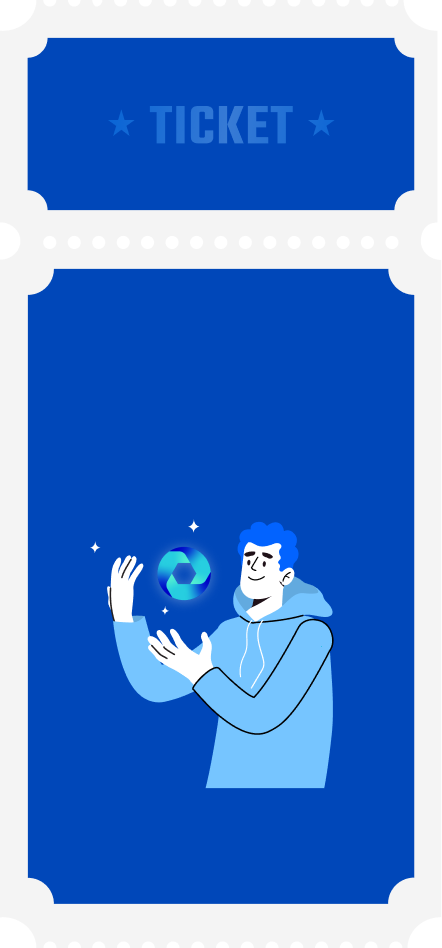
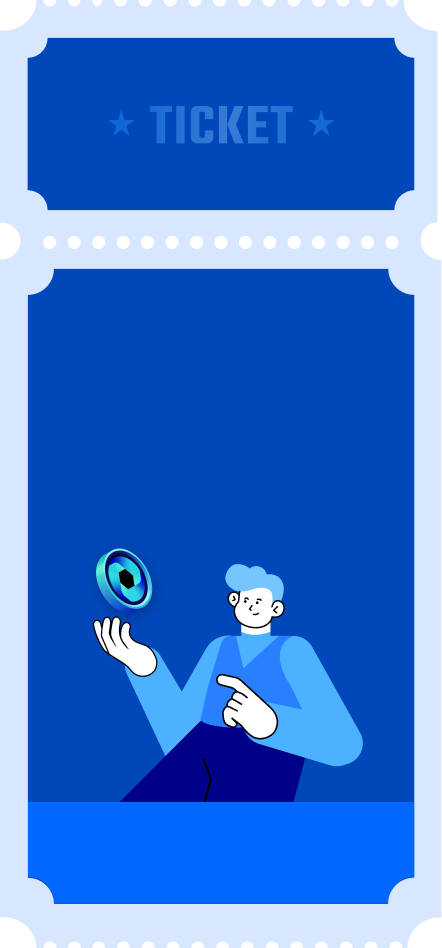
luckydraw - Update UI - v3

diff --git a/src/components/screens/Nao/Luckydraw/LuckyPage.js b/src/components/screens/Nao/Luckydraw/LuckyPage.js
@@ -1,4 +1,4 @@
-import React, { } from 'react';
+import React from 'react';
 import styled, { keyframes } from 'styled-components';
 import classnames from 'classnames';
 import Draggable from 'react-draggable';
@@ -8,12 +8,11 @@ import { getS3Url, emitWebViewEvent } from 'redux/actions/utils';
 import { ChevronUp } from 'react-feather';
 import Skeletor from 'components/common/Skeletor';
 
-const LuckyPage = ({ tickets, onOpen, width, loading }) => {
+const LuckyPage = ({ tickets, onOpen, width, loading, flag }) => {
     const { t } = useTranslation();
     const xs = width <= 360;
     const minWidth = xs ? 177 : 253;
     const zeroPad = (num, places) => String(num).padStart(places, '0')
-
     return (
         <>
             <div className="relative z-[2]">
@@ -29,34 +28,34 @@ const LuckyPage = ({ tickets, onOpen, width, loading }) => {
                     'font-medium ',
                     { 'text-xs pb-8 px-8': xs },
                     { 'leading-7 pb-12 px-5': !xs },
-                    { '!pb-[4.75rem]': tickets },
+                    { '!pb-[10%]': tickets },
                 )}>
                     {loading ? <Skeletor width={250} height={20} /> :
                         !tickets ? t(`nao:luckydraw:ticket_des`, { vndc: '10,000,000', nao: '10' }) : t('nao:luckydraw:pull_ticket')}
                 </div>
                 {!tickets && !loading &&
                     <div onClick={() => emitWebViewEvent('back')}
-                        className="mb-9 bg-nao-blue2 font-semibold leading-6 py-3 rounded-xl cursor-pointer">
+                        className="mb-[5%] bg-nao-blue2 font-semibold leading-6 py-3 rounded-xl cursor-pointer">
                         {t('common:close')}
                     </div>
                 }
             </div>
-            {/* {tickets && <ArrowEffect />} */}
+            {tickets && <ArrowEffect />}
             <BgCenter className={`select-none ${tickets ? 'top-[55%]' : 'top-1/2'}  ${xs ? 'min-w-[177px]' : 'min-w-[253px]'}`}>
                 <div className={`bg-[#3C8BFD] w-full rounded-[50%] ${xs ? 'h-[165px] ' : 'h-[235px] '}`}></div>
                 {tickets &&
                     tickets.map((ticket, idx) => (
-                        <BgCenter key={idx} className={`${xs ? 'min-w-[127px]' : 'min-w-[181px]'} top-[25%]`}>
-                            <DragTicket last={tickets.length - 1 === idx} ticket={ticket} onOpen={onOpen} xs={xs} />
+                        <BgCenter key={idx} className={`${xs ? 'min-w-[127px]' : 'min-w-[181px]'} top-[29%]`}>
+                            <DragTicket flag={flag} last={tickets.length - 1 === idx} ticket={ticket} onOpen={onOpen} xs={xs} />
                         </BgCenter>
                     ))
                 }
                 <div style={{ bottom: `calc(${minWidth}px/2)` }} className='z-[2] relative w-full'>
-                    <img src={getS3Url("/images/nao/luckydraw/bg_cover.png")} />
+                    <img src={("/images/nao/luckydraw/bg_cover.png")} />
                 </div>
             </BgCenter>
             <div className={`${tickets ? 'h-[30%]' : 'h-[45%]'} bottom-0 absolute left-0  w-full`}>
-                <img src={getS3Url('/images/nao/luckydraw/bg_footer.png')} className='w-full' />
+                <img src={('/images/nao/luckydraw/bg_footer.png')} className='w-full' />
             </div>
         </>
     );
@@ -69,10 +68,10 @@ const ArrowEffect = () => {
             <div className='arrow-1 bounceAlpha-1 bounceAlpha'>
                 <ChevronUp size={30} />
             </div>
-            <div className='arrow-2 bounceAlpha-2 bounceAlpha -mt-5'>
+            <div className='arrow-2 bounceAlpha-2 bounceAlpha -mt-6'>
                 <ChevronUp size={30} />
             </div>
-            <div className='arrow-2 bounceAlpha-3 bounceAlpha -mt-5'>
+            <div className='arrow-2 bounceAlpha-3 bounceAlpha -mt-6'>
                 <ChevronUp size={30} />
             </div>
         </div>

diff --git a/src/pages/luckydraw.js b/src/pages/luckydraw.js
@@ -13,14 +13,18 @@ import { emitWebViewEvent, getS3Url } from 'redux/actions/utils';
 import { ArrowLeft } from 'react-feather';
 import { Tooltip } from 'components/screens/Nao/NaoStyle'
 import { useTranslation } from 'next-i18next'
+import LuckyInfoModal from 'components/screens/Nao/Luckydraw/LuckyInfoModal'
 
 const Luckydraw = () => {
     const { t } = useTranslation();
     const [tickets, setTickets] = useState([]);
-    const { width } = useWindowSize();
+    const { width, height } = useWindowSize();
     const [open, setOpen] = useState(false);
     const ticket = useRef(null)
     const [loading, setLoading] = useState(true);
+    const [showInfo, setShowInfo] = useState(false);
+    const flag = useRef(false);
+    const volume = useRef(0)
 
     useEffect(() => {
         getTickets();
@@ -47,7 +51,8 @@ const Luckydraw = () => {
                 url: API_GET_TICKETS,
             });
             if (status === ApiStatus.SUCCESS) {
-                setTickets(data)
+                volume.current = data?.data_volume
+                setTickets(data?.tickets)
             }
         } catch (e) {
             console.log(e)
@@ -61,6 +66,7 @@ const Luckydraw = () => {
     const onOpen = (data) => {
         if (!_tickets) return;
         ticket.current = data;
+        flag.current = true;
         setTimeout(() => {
             setOpen(true);
         }, 300);
@@ -80,21 +86,19 @@ const Luckydraw = () => {
 
     return (
         <LayoutNaoToken isHeader={false}>
+            {showInfo && <LuckyInfoModal volume={volume.current} onClose={() => setShowInfo(false)} />}
             <Background>
                 <BackgroundImage width={width} className="text-center">
                     {_tickets ? <div>
-                        <Tooltip arrowColor={'transparent'} className="!mt-4" place="left" id="tooltip-luckydraw" />
                         <div className="flex items-center justify-between relative top-0">
                             <ArrowLeft size={24} onClick={() => emitWebViewEvent('back')} />
-                            <div data-tip={t('nao:luckydraw:ticket_des', { vndc: '100,000,000', nao: '100' })} data-for="tooltip-luckydraw">
-                                <img src={getS3Url("/images/nao/luckydraw/ic_helper.png")} width="24" height="24" alt="" />
-                            </div>
+                            <img onClick={() => setShowInfo(true)} src={("/images/nao/luckydraw/ic_helper.png")} width="24" height="24" alt="" />
                         </div>
                     </div>
                         : <div />
                     }
                     {!open ?
-                        <LuckyPage loading={loading} tickets={_tickets} width={width} onOpen={onOpen} />
+                        <LuckyPage flag={flag.current} loading={loading} tickets={_tickets} width={width} onOpen={onOpen} />
                         :
                         <LuckyTicket tickets={_tickets} ticket={ticket.current} open={open} width={width} onClose={onClose} />
                     }
@@ -115,7 +119,7 @@ const Background = styled.div.attrs({
 const BackgroundImage = styled.div.attrs(({ width }) => ({
     className: classnames(
         'min-w-full h-full flex flex-col justify-between overflow-hidden relative ',
-        { 'px-4 py-6': width > 360 },
+        { 'px-4 pt-8 pb-6': width > 360 },
         { 'p-4': width <= 360 },
     )
 }))`

diff --git a/src/components/screens/Nao/Luckydraw/LuckyTicket.js b/src/components/screens/Nao/Luckydraw/LuckyTicket.js
@@ -3,6 +3,7 @@ import styled, { keyframes } from 'styled-components';
 import classnames from 'classnames';
 import { useTranslation } from 'next-i18next';
 import { formatTime, getS3Url } from 'redux/actions/utils';
+import { TextTicketLiner, TextTicket } from 'components/screens/Nao/NaoStyle';
 
 const LuckyTicket = ({ ticket, onClose, width, tickets }) => {
     const xs = width <= 360;
@@ -21,20 +22,17 @@ const LuckyTicket = ({ ticket, onClose, width, tickets }) => {
         <>
             <Div>
                 <BgCenter className={`top-1/2 ${xs ? 'min-w-[183px]' : 'min-w-[221px]'}`}>
-                    <TextTicket className="top-[33%] text-lg font-semibold px-5 flex flex-col items-center">
+                    <TextTicket className={`top-[38%] !opacity-100 ${isGift ? '!text-sm' : '!text-[1rem]'} font-semibold !px-8 flex flex-col items-center`}>
                         {t(`nao:luckydraw:${isGift ? 'congrat_first' : 'goodluck'}`)}
                         {isGift && <div className="flex items-center space-x-2 pt-1">
-                            <TextShadow className="text-[1.75rem] leading-9 font-semibold">{ticket?.reward?.value}</TextShadow>
-                            <BgIcon>
-                                <img src={getS3Url('/images/nao/ic_nao.png')} width="20" height="20" alt="" />
-                            </BgIcon>
+                            <TextTicketLiner className="text-[1.75rem] leading-9 font-semibold">{ticket?.reward?.value} NAO</TextTicketLiner>
                         </div>}
                     </TextTicket>
-                    <TextTicket xs={xs} className="top-[85%] text-[0.625rem] font-medium opacity-[0.65]">
+                    <TextTicket xs={xs} className="top-[86%]">
                         <div className="leading-4">ID: #{ticket?.reward?.ticket_code}</div>
                         <div className="leading-4">{t('common:Thời gian')}: {formatTime(ticket?.reward?.time, 'yyyy-MM-dd HH:mm')}</div>
                     </TextTicket>
-                    <img src={getS3Url(`/images/nao/luckydraw/${isGift ? 'ic_gift' : 'ic_open_ticket'}.png`)} width={221} height={474} />
+                    <img src={(`/images/nao/luckydraw/${isGift ? 'ic_gift' : 'ic_open_ticket'}.png`)} width={221} height={474} />
                 </BgCenter>
             </Div>
             {hidden ?
@@ -54,15 +52,6 @@ const BgCenter = styled.div.attrs({
     left:50%;
     transform: translate(-50%,-50%)
 `
-
-const TextTicket = styled.div.attrs({
-    className: 'absolute w-full'
-})`
-    left:50%;
-    transform: translate(-50%,0)
-`
-
-
 const InZoom = keyframes`
     0% {
         transform: scale(0, 0);
@@ -77,12 +66,6 @@ const Div = styled.div.attrs({
 })`
     animation-name: ${InZoom};
     animation-duration: 2s;
-`
-
-const BgIcon = styled.div.attrs({
-    className: "w-7 h-7 rounded-[50%] flex items-center justify-center"
-})`
-    background: linear-gradient(101.26deg, rgb(0 21 81 / 60%) -5.29%, rgb(0 72 64 / 60%) 113.82%);
 `
 
 const TextShadow = styled.div.attrs({

diff --git a/src/components/screens/Nao/Luckydraw/DragTicket.js b/src/components/screens/Nao/Luckydraw/DragTicket.js
@@ -3,11 +3,11 @@ import styled from 'styled-components';
 import { useWindowSize } from 'utils/customHooks';
 import classnames from 'classnames';
 import Draggable from 'react-draggable';
-import { TextTicket } from 'components/screens/Nao/NaoStyle';
+import { TextTicket, TextTicketLiner } from 'components/screens/Nao/NaoStyle';
 import { formatTime, getS3Url } from 'redux/actions/utils';
 import { useTranslation } from 'next-i18next';
 
-const DragTicket = ({ ticket, onOpen, xs, last, index }) => {
+const DragTicket = ({ ticket, onOpen, xs, last, index, flag }) => {
     const [position, setPosition] = useState({ x: 0, y: 0 });
     const { t } = useTranslation();
 
@@ -22,6 +22,7 @@ const DragTicket = ({ ticket, onOpen, xs, last, index }) => {
         }
     }
 
+    const isGift = ticket?.can_receive;
 
     return (
         <Draggable
@@ -32,9 +33,19 @@ const DragTicket = ({ ticket, onOpen, xs, last, index }) => {
             defaultClassName={`animation`}
         >
 
-            <Ticket>
+            <Ticket className={flag ? '' : 'grown-up'}>
                 {/* <div className={`${!last ? 'rotate-[-10deg]' : ''}`}> */}
-                    <img src={getS3Url("/images/nao/luckydraw/ic_ticket.png")} width={181} height={390} />
+                <TextTicket className={`top-[38%] !opacity-100 ${isGift ? '!text-sm' : '!text-[1rem]'} font-semibold px-10 flex flex-col items-center`}>
+                    {t(`nao:luckydraw:${isGift ? 'congrat_first' : 'goodluck'}`)}
+                    {isGift && <div className="flex items-center space-x-2 pt-1">
+                        <TextTicketLiner className="text-[1.75rem] leading-9 font-semibold">{ticket?.reward?.value} NAO</TextTicketLiner>
+                    </div>}
+                </TextTicket>
+                <TextTicket xs={xs} className="top-[86%]">
+                    <div className="leading-4">ID: #{ticket?.reward?.ticket_code}</div>
+                    <div className="leading-4">{t('common:Thời gian')}: {formatTime(ticket?.reward?.time, 'yyyy-MM-dd HH:mm')}</div>
+                </TextTicket>
+                <img src={(`/images/nao/luckydraw/${isGift ? 'ic_gift' : 'ic_open_ticket'}.png`)} width={181} height={390} />
                 {/* </div> */}
             </Ticket>
         </Draggable>

diff --git a/src/components/screens/Nao/Luckydraw/LuckyInfoModal.js b/src/components/screens/Nao/Luckydraw/LuckyInfoModal.js
@@ -1,0 +1,45 @@
+import React, { useRef } from 'react';
+import Portal from 'components/hoc/Portal';
+import classNames from 'classnames';
+import { useTranslation } from 'next-i18next';
+import { Progressbar, useOutsideAlerter } from 'components/screens/Nao/NaoStyle'
+import { formatNumber } from 'redux/actions/utils';
+
+const LuckyInfoModal = ({ visible = true, onClose, volume }) => {
+    const { t } = useTranslation();
+    const wrapperRef = useRef(null)
+
+    useOutsideAlerter(wrapperRef, onClose)
+
+    return (
+        <Portal portalId='PORTAL_MODAL'>
+            <div
+                className={classNames(
+                    'flex flex-col fixed top-0 right-0 h-full w-full z-[20] bg-nao-bgShadow/[0.9] overflow-hidden',
+                    { invisible: !visible },
+                    { visible: visible },
+                )}
+            >
+                <div ref={wrapperRef} className={'bg-[#00288C] rounded-3xl px-6 py-10 relative -translate-y-1/2 top-1/2 mx-[1.875rem] text-center flex flex-col items-center'}>
+                    <label className='text-[#02FFFE] text-xl leading-7 font-semibold'>{t('nao:luckydraw:conditions')}</label>
+                    <div className='pt-[1.125rem]'>{t('nao:luckydraw:ticket_des', { vndc: '100,000,000', nao: '100' })}</div>
+                    <div className='pt-10'>
+                        <div className="text-nao-text2 text-sm leading-5">{t('nao:luckydraw:vol_trade')}</div>
+                        <div className="font-semibold leading-6 pt-2">{formatNumber(volume, 0)} VNDC</div>
+                    </div>
+                    <div className='pt-6 w-full'>
+                        <div className='flex items-center justify-between text-nao-text2 text-xs pb-2'>
+                            <div>{formatNumber(volume, 0)}</div>
+                            <div>100,000,000</div>
+                        </div>
+                        <div className="w-full bg-nao-text2/[0.3] rounded-lg">
+                            <Progressbar background="#02FFFE" height={10} percent={Math.ceil(volume / 100000000 * 100)} />
+                        </div>
+                    </div>
+                </div>
+            </div>
+        </Portal>
+    );
+};
+
+export default LuckyInfoModal;

diff --git a/src/components/screens/Nao/NaoStyle.js b/src/components/screens/Nao/NaoStyle.js
@@ -58,11 +58,12 @@ export const BackgroundHeader = styled.div.attrs({
     background: linear-gradient(101.26deg, rgba(9, 61, 209,0.32) -5.29%, rgba(74, 232, 214,0.32) 113.82%);
 `
 
-export const Progressbar = styled.div.attrs({
-    className: 'h-[6px] rounded-lg transition-all'
-})`
-    background: linear-gradient(101.26deg, #093DD1 -5.29%, #49E8D5 113.82%);
+export const Progressbar = styled.div.attrs(({ height = 6 }) => ({
+    className: `rounded-lg transition-all`
+}))`
+    background:${({ background }) => background ? background : 'linear-gradient(101.26deg, #093DD1 -5.29%, #49E8D5 113.82%)'};
     width:${({ percent }) => `${percent > 100 ? 100 : percent}%`};
+    height:${({ height }) => `${height}px`}
 `
 
 export const Tooltip = ({ id, arrowColor, backgroundColor, className, children, place = "top" }) => {
@@ -284,11 +285,21 @@ export const useOutsideAlerter = (ref, cb) => {
 
 export const TextTicket = styled.div.attrs(({ xs }) => ({
     className: classNames(
-        'absolute font-medium opacity-[0.65] w-full px-4',
+        'absolute font-medium opacity-[0.8] w-full px-4',
         { 'text-[0.4375rem] ': xs },
         { 'text-[0.625rem] ': !xs }
     )
 }))`
     left:50%;
     transform: translate(-50%,0)
+`
+
+export const TextTicketLiner = styled.div.attrs({
+    className: 'w-full'
+})`
+    background: linear-gradient(94.68deg, #24BAE2 -3.13%, #60F2D8 46.7%, #24BAE2 103.69%);
+    -webkit-background-clip: text;
+    -webkit-text-fill-color: transparent;
+    background-clip: text;
+    text-fill-color: transparent;
 `

diff --git a/src/styles/app.scss b/src/styles/app.scss
@@ -737,6 +737,17 @@ input[type='number'] {
     transition: transform 0.9s
 }
 
+.grown-up{
+    animation-name: grownUp;
+    animation-duration:0.8s;
+    animation-timing-function:linear;
+}
+
+@keyframes grownUp {
+    0% {transform: translateY(100vh)}
+    100% {transform: translateY(0px)}
+  }
+
 .bounceAlpha {
     animation-name: bounceAlpha;
     animation-duration:1.4s;

diff --git a/tailwind.config.js b/tailwind.config.js
@@ -51,6 +51,7 @@ const commonColors = {
         bg3: '#192138',
         bg4: '#202E42',
         text: '#B9CCFF',
+        text2: '#A6BFE6',
         grey: '#7686B1',
         grey2: '#7586AD',
         white: '#F6F6F6',
